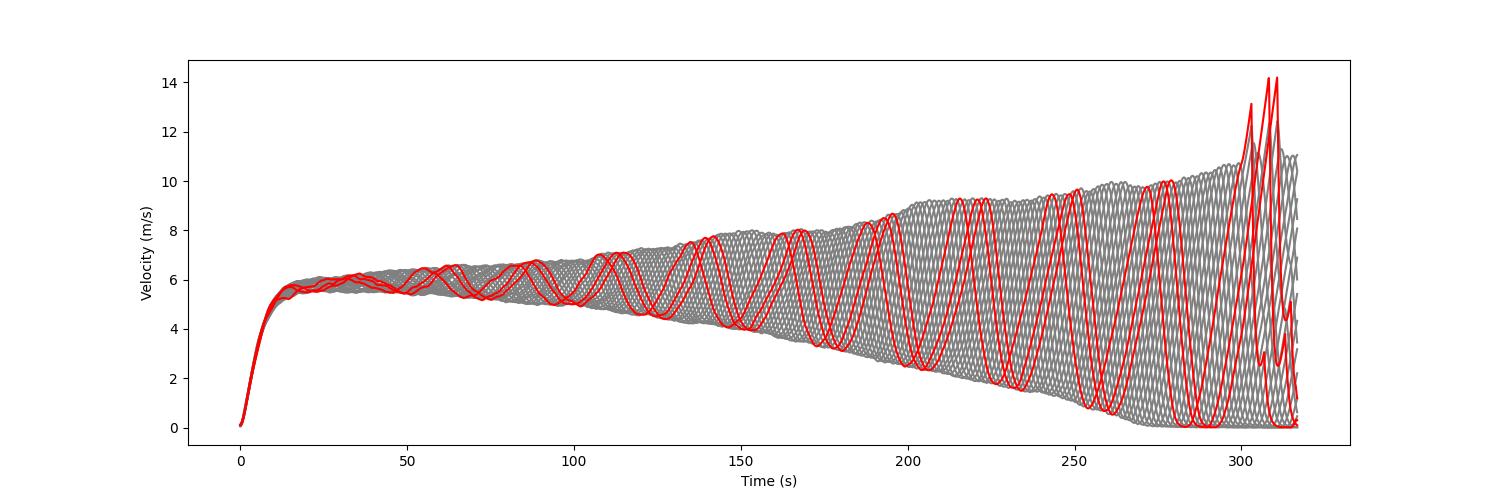
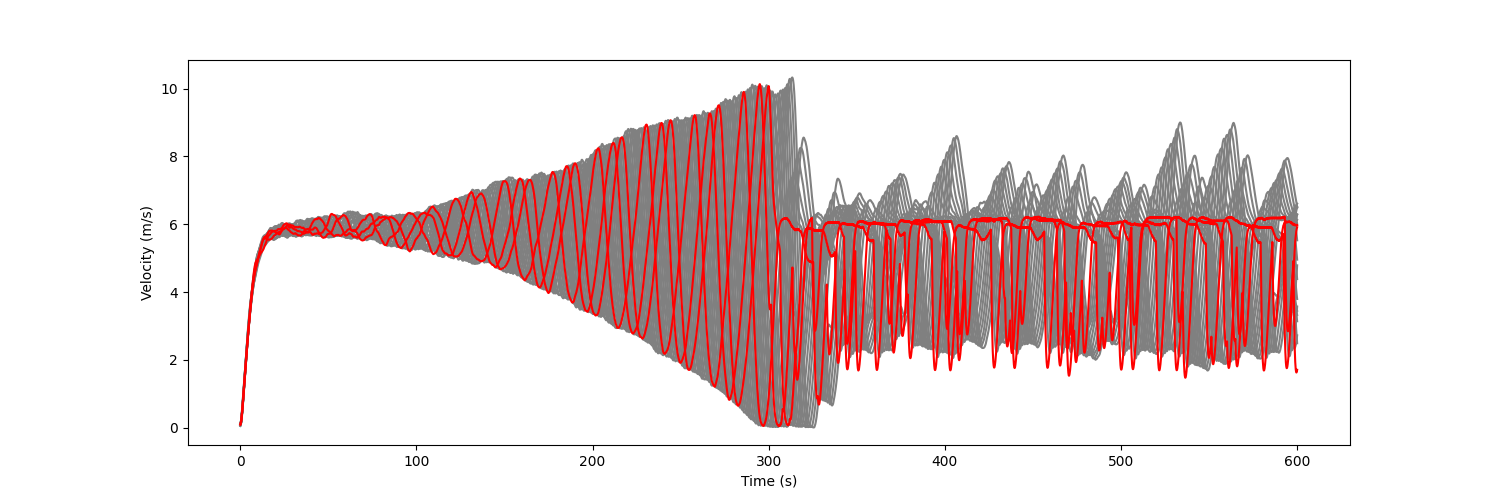
qmix training

diff --git a/Ring_Road/constants.py b/Ring_Road/constants.py
@@ -35,7 +35,7 @@ def clean_image(mycar_image):
                 mycar_image.set_at((x, y), (0, 0, 0, 0))
 
 
-cwd = "/home/vamsi/GitHub/RingRoad-RL"
+cwd = "/home/vamsi/Documents/GitHub/RingRoad-RL"
 
 env_car_image = pygame.image.load(cwd + "/Ring_Road/sprites/env_vehicle.png")
 env_car_image = pygame.transform.scale(env_car_image, (CAR_PIX_LENGTH, CAR_PIX_WIDTH))

diff --git a/Ring_Road/vehicle/state.py b/Ring_Road/vehicle/state.py
@@ -99,7 +99,9 @@ class StateExtractor:
 
         accel = self.get_safe_action_instantaneous(accel, front_veh, agent)
         accel = self.get_safe_velocity_action(accel, front_veh, agent)
-        accel = np.clip(accel, -10, 1)
+        print(accel)
+        accel = np.clip(accel, -1, 1)
+
         return accel
 
     def get_average_vel(self):

diff --git a/Ring_Road/envs/multiagent_ringroad.py b/Ring_Road/envs/multiagent_ringroad.py
@@ -166,7 +166,7 @@ class MultiAgentRingRoad(MultiAgentEnv):
             if act == 0:
                 action_dict[ag_id] = 1
             else:
-                action_dict[ag_id] = -2
+                action_dict[ag_id] = -1
 
         # punish accelerations (should lead to reduced stop-and-go waves)
         eta = 0.5  # 0.25

diff --git a/Ring_Road/vehicle/vehicle.py b/Ring_Road/vehicle/vehicle.py
@@ -143,7 +143,7 @@ class Agent(Car):
         if self.stored_action == 0:
             self.acc = 1
         elif self.stored_action == 1:
-            self.acc = -2
+            self.acc = -1
 
         return self.acc
 
